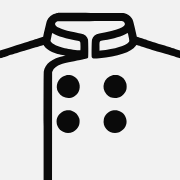
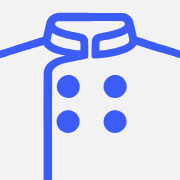
Brand colour: the jacket in blue on the white tile (colourway B)
Ryan wanted the mark in an accent colour rather than black and white
and picked B from brand/mark-colourways.png (six colourways compared at
full size, 32/16 px and in the header).

- --brand #3b5cf6 (the jacket on the white tile) and --brand-on-dark
  #7698fd (marks on dark tiles) in theme.css
- favicon.svg, apple-touch-icon.png and brand/bellhop-mark.svg redrawn
  in brand blue on #f2f2f2
- header logo: brand blue jacket on the white tile; agent avatars: the
  lighter brand blue on their dark tile (was white)

Verified: app tsc passes; favicon at 128/32/16 px and the issue page
header/sidebar checked on the dev server.

Changed region(s): [[0.0, 0.0556, 1.0, 1.0], [0.5556, 0.6111, 0.7222, 0.75], [0.5556, 0.4167, 0.7222, 0.5556]]

diff --git a/src/styles/components.css b/src/styles/components.css
@@ -381,7 +381,7 @@ img.avatar[data-photo] {
   box-shadow: 0 0 0 0.5px var(--border-strong);
 }
 .avatar[data-agent] {
-  color: var(--fg-contrast);
+  color: var(--brand-on-dark);
   background: var(--layer-3);
   box-shadow: inset 0 0 0 1px rgb(255 255 255 / 0.1);
 }
@@ -389,9 +389,9 @@ img.avatar[data-photo] {
   width: 100%;
   height: 100%;
 }
-/* The brand mark is the jacket in off-black on the primary white */
+/* The brand mark is the jacket in brand blue on the primary white */
 .logo .avatar[data-agent] {
-  color: var(--primary-fg);
+  color: var(--brand);
   background: var(--primary-bg);
   box-shadow: none;
 }

diff --git a/src/styles/theme.css b/src/styles/theme.css
@@ -55,6 +55,10 @@
   --bg-neutral: rgb(255 255 255 / 0.05);
   --bg-field: rgb(255 255 255 / 0.03);
 
+  /* Brand: the jacket mark's blue (on the white tile), and a lighter tint for marks on dark */
+  --brand: #3b5cf6;
+  --brand-on-dark: #7698fd;
+
   /* Primary action: flat white with dark text */
   --primary-bg: #f2f2f2;
   --primary-hover: #dfdfdf;
